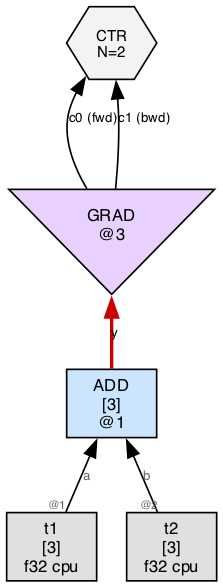
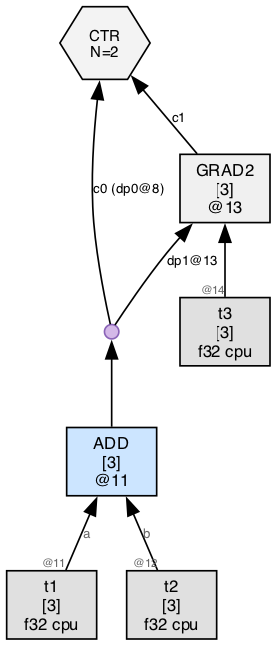
grad: migrate target_nomatch test to thvm_grad_u
Uses a tensor c that isn't referenced by y so every leaf comparison
returns zero — clean semantics without the ~0u label sentinel.

diff --git a/test/test_grad_rules.m b/test/test_grad_rules.m
@@ -317,16 +317,18 @@ static int test_second_derivative(void) {
 static int test_target_nomatch(void) {
     setup_graph_dir("target_nomatch");
     TinyHVM *ctx = thvm_init("cpu");
-    f32 ad[] = {1,2,3}, bd[] = {4,5,6};
+    f32 ad[] = {1,2,3}, bd[] = {4,5,6}, cd[] = {7,8,9};
     Term a = thvm_tensor(ctx, ad, SHAPE(3));
     Term b = thvm_tensor(ctx, bd, SHAPE(3));
+    // target c is not referenced by y — every leaf comparison returns 0.
+    Term c = thvm_tensor(ctx, cd, SHAPE(3));
     Term y = thvm_op(ctx, UOP_ADD, a, b);
-    Term fwd, bwd;
-    thvm_grad_pair(ctx, ~0u, y, &fwd, &bwd);
-    Term root = thvm_ctr(ctx, (Term[]){fwd, bwd}, 2);
+    Term y0, y1;
+    thvm_dup(ctx, thvm_fresh_label(ctx), y, &y0, &y1);
+    Term root = thvm_ctr(ctx, (Term[]){y0, thvm_grad_u(ctx, y1, c)}, 2);
     thvm_eval(ctx, root);
     thvm_free(ctx);
-    const char *pre[]  = {"GRAD", "CTR", "ADD"};
+    const char *pre[]  = {"GRAD2", "CTR", "ADD"};
     const char *post[] = {"CTR"};
     int ok = topo_check("target_nomatch", 0, pre, 3)
           && topo_check("target_nomatch", 1, post, 1);
